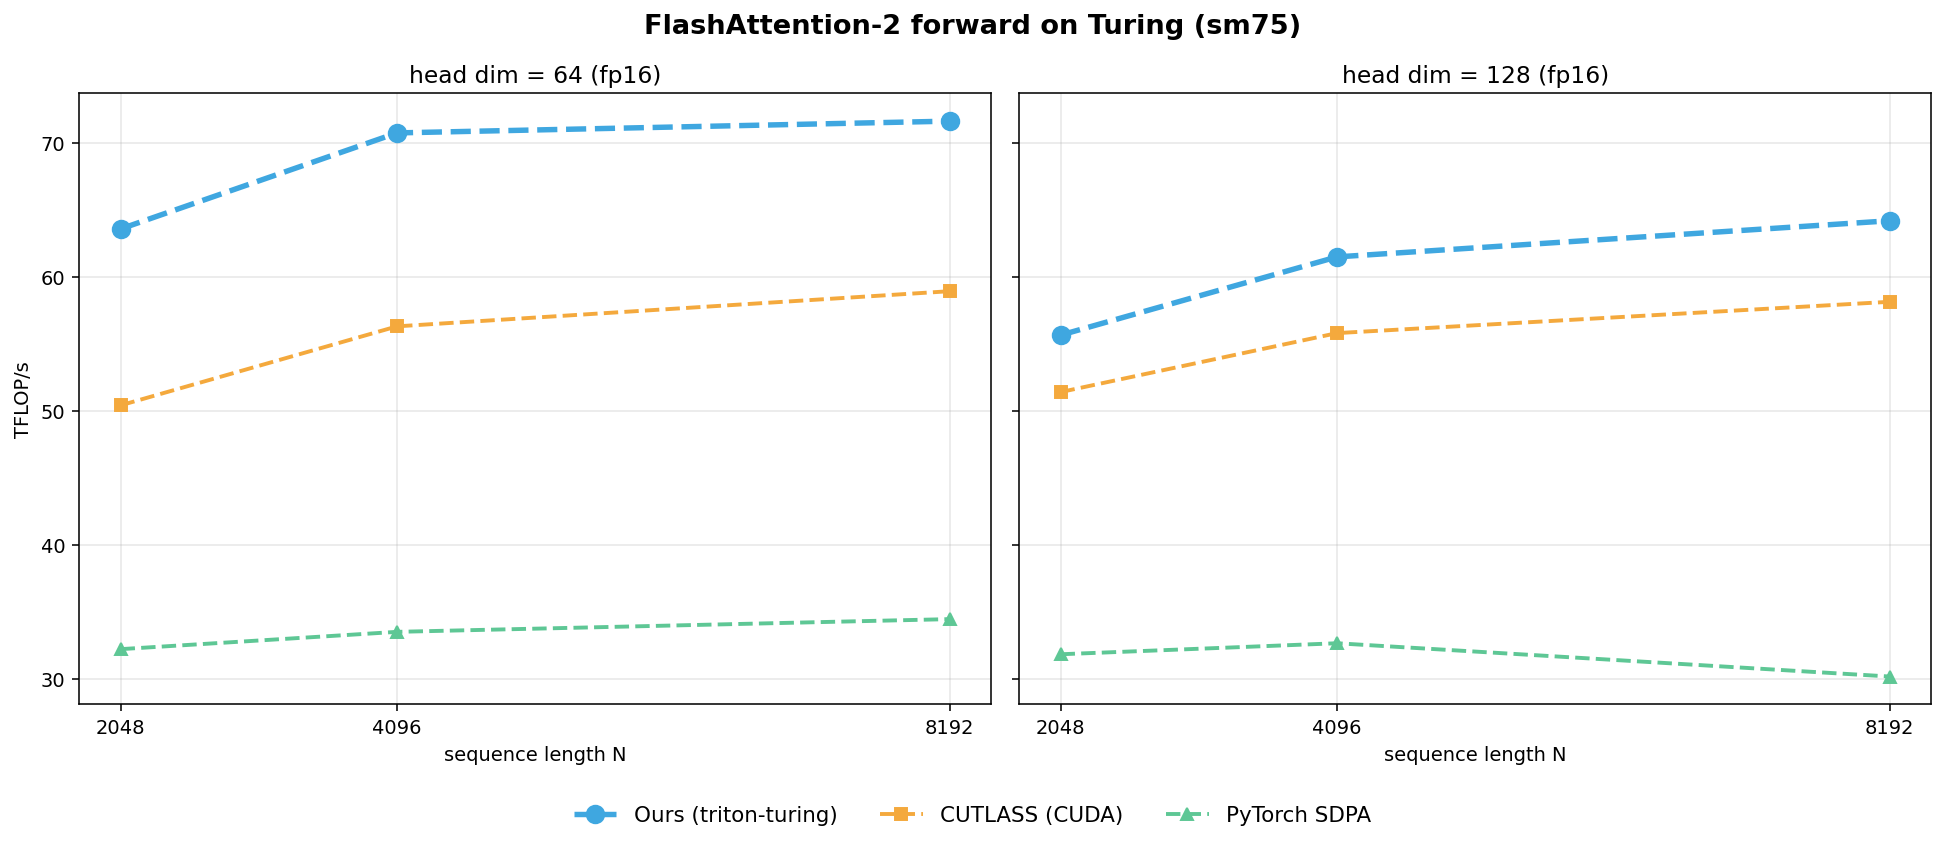
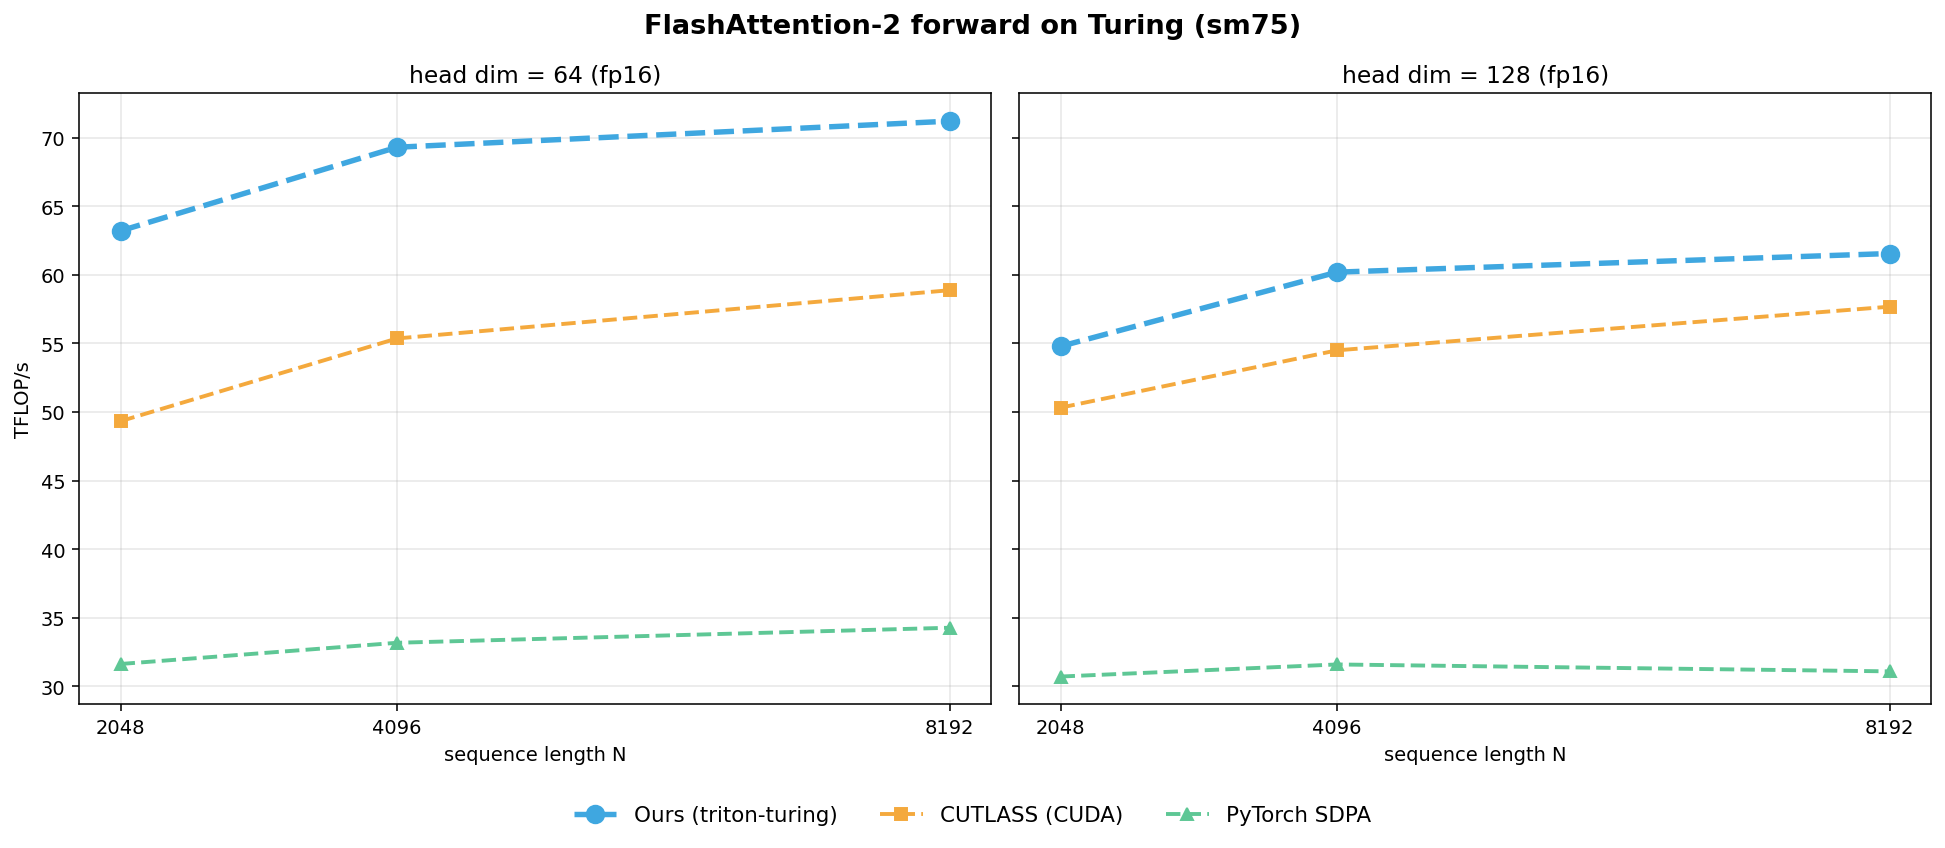
perf(tutorial): launch the FA2 backward halves separately
_attn_bwd computes dK/dV for one K/V block and then dQ for one Q block in the
same program, so both halves share one config, one register allocation and
BLOCK_N1 == BLOCK_M2, and on Turing every such config sits at 255 registers
and spills. A PHASE constexpr now selects one half, and on Turing backward()
launches the kernel twice, each half with its own tiling -- the way the
hand-written CUDA backward is structured. PHASE=0 (both halves, every other
target) produces the same PTX as before.

Same-process A/B against the fused kernel, split / fused:

  d64  N 2048 / 4096 / 8192   0.862 / 0.904 / 0.919
  d128 N 2048 / 4096 / 8192   0.976 / 0.990 / 0.992

d128 goes from 30 spills to none (dK/dV 64/64 s1 w8, dQ 64/32 s3 w4); d64
uses dK/dV 64/64 s1 w4, dQ 64/64 s2 w4. Gradients are within 2e-3 of the
fused kernel. test_op fails only where the N x N torch reference runs out of
memory at N=4096 H=48, as it does without this change.

Both FA2 figures are re-measured in one run (benchmarks/fa2/14): backward d64
is now +49-50% over the CUDA kernel, d128 -12-14%. With the same 64x64 tile,
8 warps and no spills, our dK/dV kernel is still 17% slower than the CUDA
one, so what is left at d128 is in code generation.

diff --git a/python/tutorials/06-fused-attention.py b/python/tutorials/06-fused-attention.py
@@ -379,7 +379,10 @@ def _attn_bwd(Q, K, V, sm_scale,  #
               BLOCK_N2: tl.constexpr,  #
               BLK_SLICE_FACTOR: tl.constexpr,  #
               HEAD_DIM: tl.constexpr,  #
-              CAUSAL: tl.constexpr):
+              CAUSAL: tl.constexpr,  #
+              # 0: both halves in one program. 1: dK/dV only, 2: dQ only -- two
+              # launches, each with its own grid and config (see backward()).
+              PHASE: tl.constexpr = 0):
     LN2: tl.constexpr = 0.6931471824645996  # = ln(2)
 
     # The launch grid is sized N_CTX // BLOCK_N1, but the two halves of this
@@ -388,7 +391,8 @@ def _attn_bwd(Q, K, V, sm_scale,  #
     # block sizes agree -- a smaller BLOCK_M2 silently leaves the tail of dQ
     # unwritten, a larger one reads out of bounds. Upstream never trips this
     # because it hardcodes 128 for both, but it is easy to hit when autotuning.
-    tl.static_assert(BLOCK_N1 == BLOCK_M2)
+    if PHASE == 0:
+        tl.static_assert(BLOCK_N1 == BLOCK_M2)
 
     bhid = tl.program_id(2)
     off_chz = (bhid * N_CTX).to(tl.int64)
@@ -409,105 +413,107 @@ def _attn_bwd(Q, K, V, sm_scale,  #
     # load scales
     offs_k = tl.arange(0, HEAD_DIM)
 
-    start_n = pid * BLOCK_N1
-    start_m = 0
+    if PHASE != 2:
+        start_n = pid * BLOCK_N1
+        start_m = 0
 
-    MASK_BLOCK_M1: tl.constexpr = BLOCK_M1 // BLK_SLICE_FACTOR
-    offs_n = start_n + tl.arange(0, BLOCK_N1)
+        MASK_BLOCK_M1: tl.constexpr = BLOCK_M1 // BLK_SLICE_FACTOR
+        offs_n = start_n + tl.arange(0, BLOCK_N1)
 
-    dv = tl.zeros([BLOCK_N1, HEAD_DIM], dtype=tl.float32)
-    dk = tl.zeros([BLOCK_N1, HEAD_DIM], dtype=tl.float32)
+        dv = tl.zeros([BLOCK_N1, HEAD_DIM], dtype=tl.float32)
+        dk = tl.zeros([BLOCK_N1, HEAD_DIM], dtype=tl.float32)
 
-    # load K and V: they stay in SRAM throughout the inner loop.
-    k = tl.load(K + offs_n[:, None] * stride_tok + offs_k[None, :] * stride_d)
-    v = tl.load(V + offs_n[:, None] * stride_tok + offs_k[None, :] * stride_d)
+        # load K and V: they stay in SRAM throughout the inner loop.
+        k = tl.load(K + offs_n[:, None] * stride_tok + offs_k[None, :] * stride_d)
+        v = tl.load(V + offs_n[:, None] * stride_tok + offs_k[None, :] * stride_d)
 
-    if CAUSAL:
-        start_m = start_n
-        num_steps = BLOCK_N1 // MASK_BLOCK_M1
-        dk, dv = _attn_bwd_dkdv(dk, dv,  #
-                                Q, k, v, sm_scale,  #
-                                DO,  #
-                                M, D,  #
-                                stride_tok, stride_d,  #
-                                H, N_CTX,  #
-                                MASK_BLOCK_M1, BLOCK_N1, HEAD_DIM,  #
-                                start_n, start_m, num_steps,  #
-                                MASK=True,  #
-                                )
+        if CAUSAL:
+            start_m = start_n
+            num_steps = BLOCK_N1 // MASK_BLOCK_M1
+            dk, dv = _attn_bwd_dkdv(dk, dv,  #
+                                    Q, k, v, sm_scale,  #
+                                    DO,  #
+                                    M, D,  #
+                                    stride_tok, stride_d,  #
+                                    H, N_CTX,  #
+                                    MASK_BLOCK_M1, BLOCK_N1, HEAD_DIM,  #
+                                    start_n, start_m, num_steps,  #
+                                    MASK=True,  #
+                                    )
 
-        start_m += num_steps * MASK_BLOCK_M1
+            start_m += num_steps * MASK_BLOCK_M1
 
-    # Compute dK and dV for non-masked blocks.
-    num_steps = (N_CTX - start_m) // BLOCK_M1
-    dk, dv = _attn_bwd_dkdv(  #
-        dk, dv,  #
-        Q, k, v, sm_scale,  #
-        DO,  #
-        M, D,  #
-        stride_tok, stride_d,  #
-        H, N_CTX,  #
-        BLOCK_M1, BLOCK_N1, HEAD_DIM,  #
-        start_n, start_m, num_steps,  #
-        MASK=False,  #
-    )
+        # Compute dK and dV for non-masked blocks.
+        num_steps = (N_CTX - start_m) // BLOCK_M1
+        dk, dv = _attn_bwd_dkdv(  #
+            dk, dv,  #
+            Q, k, v, sm_scale,  #
+            DO,  #
+            M, D,  #
+            stride_tok, stride_d,  #
+            H, N_CTX,  #
+            BLOCK_M1, BLOCK_N1, HEAD_DIM,  #
+            start_n, start_m, num_steps,  #
+            MASK=False,  #
+        )
 
-    dv_ptrs = DV + offs_n[:, None] * stride_tok + offs_k[None, :] * stride_d
-    tl.store(dv_ptrs, dv)
+        dv_ptrs = DV + offs_n[:, None] * stride_tok + offs_k[None, :] * stride_d
+        tl.store(dv_ptrs, dv)
 
-    # Write back dK.
-    dk *= sm_scale
-    dk_ptrs = DK + offs_n[:, None] * stride_tok + offs_k[None, :] * stride_d
-    tl.store(dk_ptrs, dk)
+        # Write back dK.
+        dk *= sm_scale
+        dk_ptrs = DK + offs_n[:, None] * stride_tok + offs_k[None, :] * stride_d
+        tl.store(dk_ptrs, dk)
 
-    # THIS BLOCK DOES DQ:
-    start_m = pid * BLOCK_M2
-    start_n = 0
-    num_steps = N_CTX // BLOCK_N2
+    if PHASE != 1:
+        # THIS BLOCK DOES DQ:
+        start_m = pid * BLOCK_M2
+        start_n = 0
+        num_steps = N_CTX // BLOCK_N2
 
-    MASK_BLOCK_N2: tl.constexpr = BLOCK_N2 // BLK_SLICE_FACTOR
-    offs_m = start_m + tl.arange(0, BLOCK_M2)
+        MASK_BLOCK_N2: tl.constexpr = BLOCK_N2 // BLK_SLICE_FACTOR
+        offs_m = start_m + tl.arange(0, BLOCK_M2)
 
-    q = tl.load(Q + offs_m[:, None] * stride_tok + offs_k[None, :] * stride_d)
-    dq = tl.zeros([BLOCK_M2, HEAD_DIM], dtype=tl.float32)
-    do = tl.load(DO + offs_m[:, None] * stride_tok + offs_k[None, :] * stride_d)
+        q = tl.load(Q + offs_m[:, None] * stride_tok + offs_k[None, :] * stride_d)
+        dq = tl.zeros([BLOCK_M2, HEAD_DIM], dtype=tl.float32)
+        do = tl.load(DO + offs_m[:, None] * stride_tok + offs_k[None, :] * stride_d)
 
-    m = tl.load(M + offs_m)
-    m = m[:, None]
+        m = tl.load(M + offs_m)
+        m = m[:, None]
 
-    if CAUSAL:
-        # Compute dQ for masked (diagonal) blocks.
-        # NOTE: This code scans each row of QK^T backward (from right to left,
-        # but inside each call to _attn_bwd_dq, from left to right), but that's
-        # not due to anything important.  I just wanted to reuse the loop
-        # structure for dK & dV above as much as possible.
-        end_n = start_m + BLOCK_M2
-        num_steps = BLOCK_M2 // MASK_BLOCK_N2
+        if CAUSAL:
+            # Compute dQ for masked (diagonal) blocks.
+            # NOTE: This code scans each row of QK^T backward (from right to left,
+            # but inside each call to _attn_bwd_dq, from left to right), but that's
+            # not due to anything important.  I just wanted to reuse the loop
+            # structure for dK & dV above as much as possible.
+            end_n = start_m + BLOCK_M2
+            num_steps = BLOCK_M2 // MASK_BLOCK_N2
+            dq = _attn_bwd_dq(dq, q, K, V,  #
+                              do, m, D,  #
+                              stride_tok, stride_d,  #
+                              H, N_CTX,  #
+                              BLOCK_M2, MASK_BLOCK_N2, HEAD_DIM,  #
+                              start_m, end_n - num_steps * MASK_BLOCK_N2, num_steps,  #
+                              MASK=True,  #
+                              )
+            end_n -= num_steps * MASK_BLOCK_N2
+            # stage 2
+            num_steps = end_n // BLOCK_N2
+            start_n = end_n - num_steps * BLOCK_N2
+
         dq = _attn_bwd_dq(dq, q, K, V,  #
                           do, m, D,  #
                           stride_tok, stride_d,  #
                           H, N_CTX,  #
-                          BLOCK_M2, MASK_BLOCK_N2, HEAD_DIM,  #
-                          start_m, end_n - num_steps * MASK_BLOCK_N2, num_steps,  #
-                          MASK=True,  #
+                          BLOCK_M2, BLOCK_N2, HEAD_DIM,  #
+                          start_m, start_n, num_steps,  #
+                          MASK=False,  #
                           )
-        end_n -= num_steps * MASK_BLOCK_N2
-        # stage 2
-        num_steps = end_n // BLOCK_N2
-        start_n = end_n - num_steps * BLOCK_N2
-
-    dq = _attn_bwd_dq(dq, q, K, V,  #
-                      do, m, D,  #
-                      stride_tok, stride_d,  #
-                      H, N_CTX,  #
-                      BLOCK_M2, BLOCK_N2, HEAD_DIM,  #
-                      start_m, start_n, num_steps,  #
-                      MASK=False,  #
-                      )
-    # Write back dQ.
-    dq_ptrs = DQ + offs_m[:, None] * stride_tok + offs_k[None, :] * stride_d
-    dq *= LN2
-    tl.store(dq_ptrs, dq)
+        # Write back dQ.
+        dq_ptrs = DQ + offs_m[:, None] * stride_tok + offs_k[None, :] * stride_d
+        dq *= LN2
+        tl.store(dq_ptrs, dq)
 
 
 class _attention(torch.autograd.Function):
@@ -594,25 +600,22 @@ class _attention(torch.autograd.Function):
         PRE_BLOCK = 128
         NUM_WARPS, NUM_STAGES = 4, 5
         BLOCK_M1, BLOCK_N1, BLOCK_M2, BLOCK_N2 = 32, 128, 128, 32
+        # (num_stages, num_warps) per half when the halves are launched apart.
+        phases = None
         if is_cuda() and torch.cuda.get_device_capability() == (7, 5):
-            # Turing: 64KB shared memory per CTA (Ampere+: >= 100KB). Both
-            # branches below are the fastest point of an exhaustive sweep over
-            # BLOCK_M1/N1/M2/N2 x num_stages x num_warps, filtered by the 64KB
-            # budget and by BLOCK_N1 == BLOCK_M2 (see the static_assert in
-            # _attn_bwd).
+            # Turing: 64KB shared memory per CTA (Ampere+: >= 100KB). In one
+            # program both halves share a config, a register budget and
+            # BLOCK_N1 == BLOCK_M2, and every such config sits at 255 registers
+            # and spills. Launched apart -- as ssiu's hand-written Turing
+            # kernels are -- each half gets the full 64KB and its own tiling:
+            # +8-9% at HEAD_DIM=64, +1-2.4% at 128. Each is the fastest point of
+            # a sweep over that half's blocks x num_stages x num_warps.
             if ctx.HEAD_DIM > 64:
-                # Upstream's blocks need ~82KB here, so halve the K/V (resp. Q)
-                # row blocks. Every larger tile that fits forces num_stages=1,
-                # and losing the pipeline costs more than the tile gains.
-                BLOCK_N1, BLOCK_M2 = 64, 64
+                BLOCK_M1, BLOCK_N1, BLOCK_M2, BLOCK_N2 = 64, 64, 64, 32
+                phases = ((1, 8), (3, 4))
             else:
-                # At HEAD_DIM=64 the tiles are half the bytes, so the inner
-                # steps can double and still keep the pipeline: ~+4.6% over the
-                # upstream blocks, consistently across N=1024..8192. The wider
-                # tile needs 8 warps -- at 4 it is less than half as fast.
-                BLOCK_M1, BLOCK_N2 = 64, 64
-                NUM_WARPS = 8
-            NUM_STAGES = 2
+                BLOCK_M1, BLOCK_N1, BLOCK_M2, BLOCK_N2 = 64, 64, 64, 64
+                phases = ((1, 4), (2, 4))
         BLK_SLICE_FACTOR = 2
         RCP_LN2 = 1.4426950408889634  # = 1.0 / ln(2)
         arg_k = k
@@ -627,20 +630,21 @@ class _attention(torch.autograd.Function):
             BATCH, N_HEAD, N_CTX,  #
             BLOCK_M=PRE_BLOCK, HEAD_DIM=ctx.HEAD_DIM  #
         )
-        grid = (N_CTX // BLOCK_N1, 1, BATCH * N_HEAD)
-        _attn_bwd[grid](
+        args = (
             q, arg_k, v, ctx.sm_scale, do, dq, dk, dv,  #
             M, delta,  #
             q.stride(0), q.stride(1), q.stride(2), q.stride(3),  #
             N_HEAD, N_CTX,  #
-            BLOCK_M1=BLOCK_M1, BLOCK_N1=BLOCK_N1,  #
-            BLOCK_M2=BLOCK_M2, BLOCK_N2=BLOCK_N2,  #
-            BLK_SLICE_FACTOR=BLK_SLICE_FACTOR,  #
-            HEAD_DIM=ctx.HEAD_DIM,  #
-            num_warps=NUM_WARPS,  #
-            num_stages=NUM_STAGES,  #
-            CAUSAL=ctx.causal,  #
         )
+        blocks = dict(BLOCK_M1=BLOCK_M1, BLOCK_N1=BLOCK_N1, BLOCK_M2=BLOCK_M2, BLOCK_N2=BLOCK_N2,
+                      BLK_SLICE_FACTOR=BLK_SLICE_FACTOR, HEAD_DIM=ctx.HEAD_DIM, CAUSAL=ctx.causal)
+        if phases is None:
+            _attn_bwd[(N_CTX // BLOCK_N1, 1, BATCH * N_HEAD)](*args, **blocks, num_warps=NUM_WARPS,
+                                                               num_stages=NUM_STAGES)
+        else:
+            for phase, rows, (stages, warps) in zip((1, 2), (BLOCK_N1, BLOCK_M2), phases):
+                _attn_bwd[(N_CTX // rows, 1, BATCH * N_HEAD)](*args, **blocks, PHASE=phase, num_warps=warps,
+                                                              num_stages=stages)
 
         return dq, dk, dv, None, None, None, None
 

diff --git a/README.md b/README.md
@@ -35,8 +35,8 @@ are still throttle-prone.
 
 The Triton FA2 forward kernel (tutorial `06-fused-attention.py` plus our sm75
 pipeline) is the fastest at every size measured. It is ahead of a from-scratch
-CUDA/CUTLASS FlashAttention for Turing by **+21–26%** at head dim 64 and
-**+8–10%** at head dim 128, and ahead of PyTorch SDPA (xformers backend) by
+CUDA/CUTLASS FlashAttention for Turing by **+21–28%** at head dim 64 and
+**+7–11%** at head dim 128, and ahead of PyTorch SDPA (xformers backend) by
 **1.8–2.1×**. Attention benefits from the pipeline because the softmax
 dependency chain leaves the Tensor Cores idle, and the pipeline uses that window
 to prefetch K/V.
@@ -45,18 +45,17 @@ to prefetch K/V.
 
 ![FlashAttention-2 backward](.github/assets/benchmarks/fa2-backward.png)
 
-At head dim 64 our kernel beats the CUDA/CUTLASS implementation by **+35–40%**,
-from Turing-specific block sizes plus a codegen change that lets a transposed
-dot operand read the shared buffer its untransposed sibling already filled,
-instead of paying a scratch round trip every loop iteration.
+At head dim 64 our kernel beats the CUDA/CUTLASS implementation by **+49–50%**.
+Three Turing-specific changes add up to that: block sizes that fit 64 KB, a
+codegen change that lets a transposed dot operand read the shared buffer its
+untransposed sibling already filled, and launching the dK/dV and dQ halves as two
+kernels so each gets its own tiling and the full 64 KB.
 
-At head dim 128 it **trails by 15–16%**, the only place we lose. Upstream's
-d=128 backward blocks need ~82 KB of shared memory, well past Turing's hard
-**64 KB/CTA** limit, so `BLOCK_N1` and `BLOCK_M2` are halved to 64 to fit. An
-exhaustive sweep of the 216-configuration block/stage/warp space confirms that
-fallback is the fastest option available, not a tuning oversight: every larger
-tile that fits forces `num_stages=1`, and losing the pipeline costs more than
-the tile gains.
+At head dim 128 it **trails by 12–14%**, the only place we lose. Splitting the
+kernel removes its register spills but gains only 1–2% here. With the same
+64×64 tile and 8 warps as the CUDA kernel and no spills, our dK/dV kernel is
+still 17% slower, so what remains is in code generation, not in the
+configuration.
 
 ### Integer GEMM — INT4 doubles INT8, and cuBLAS has no INT4 path
 
